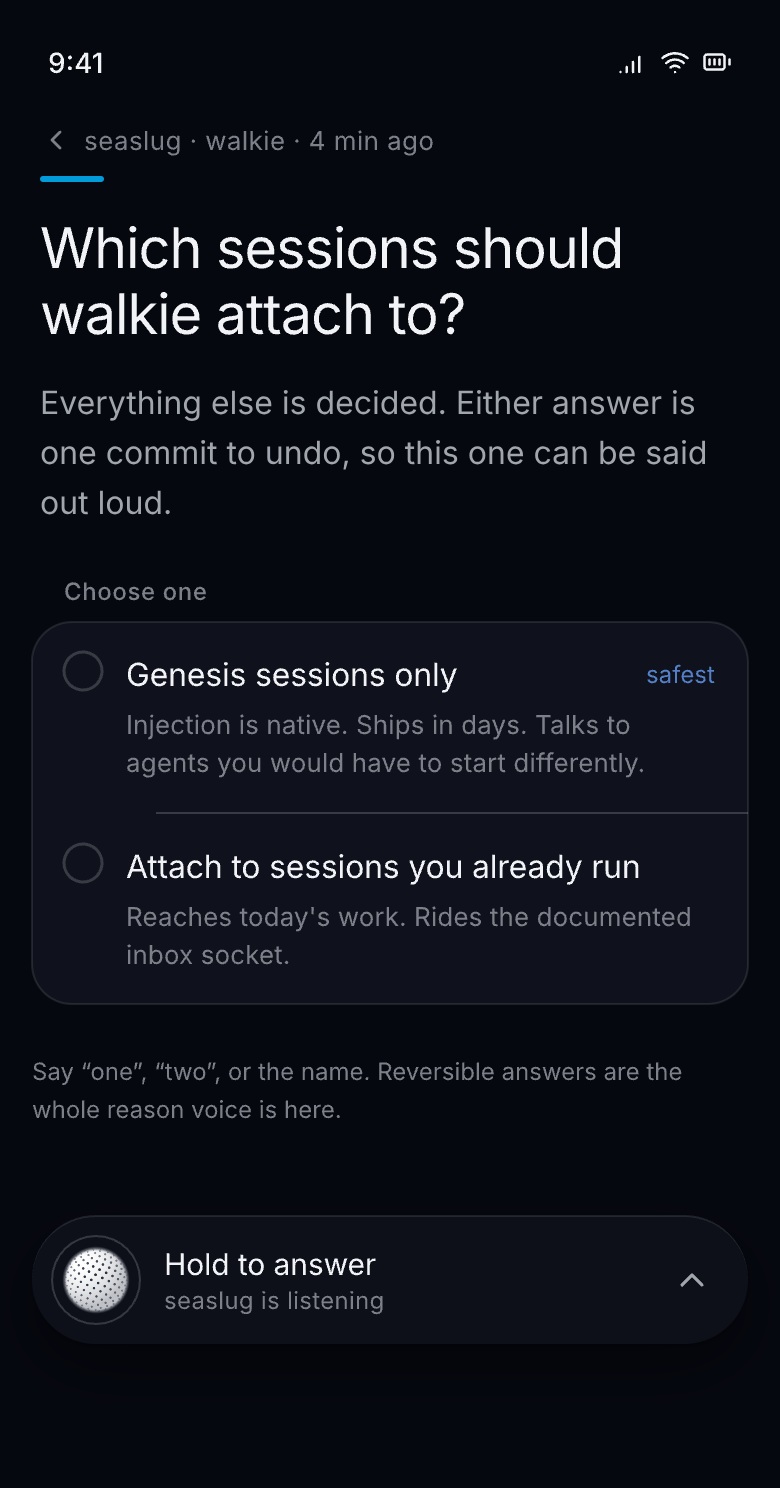
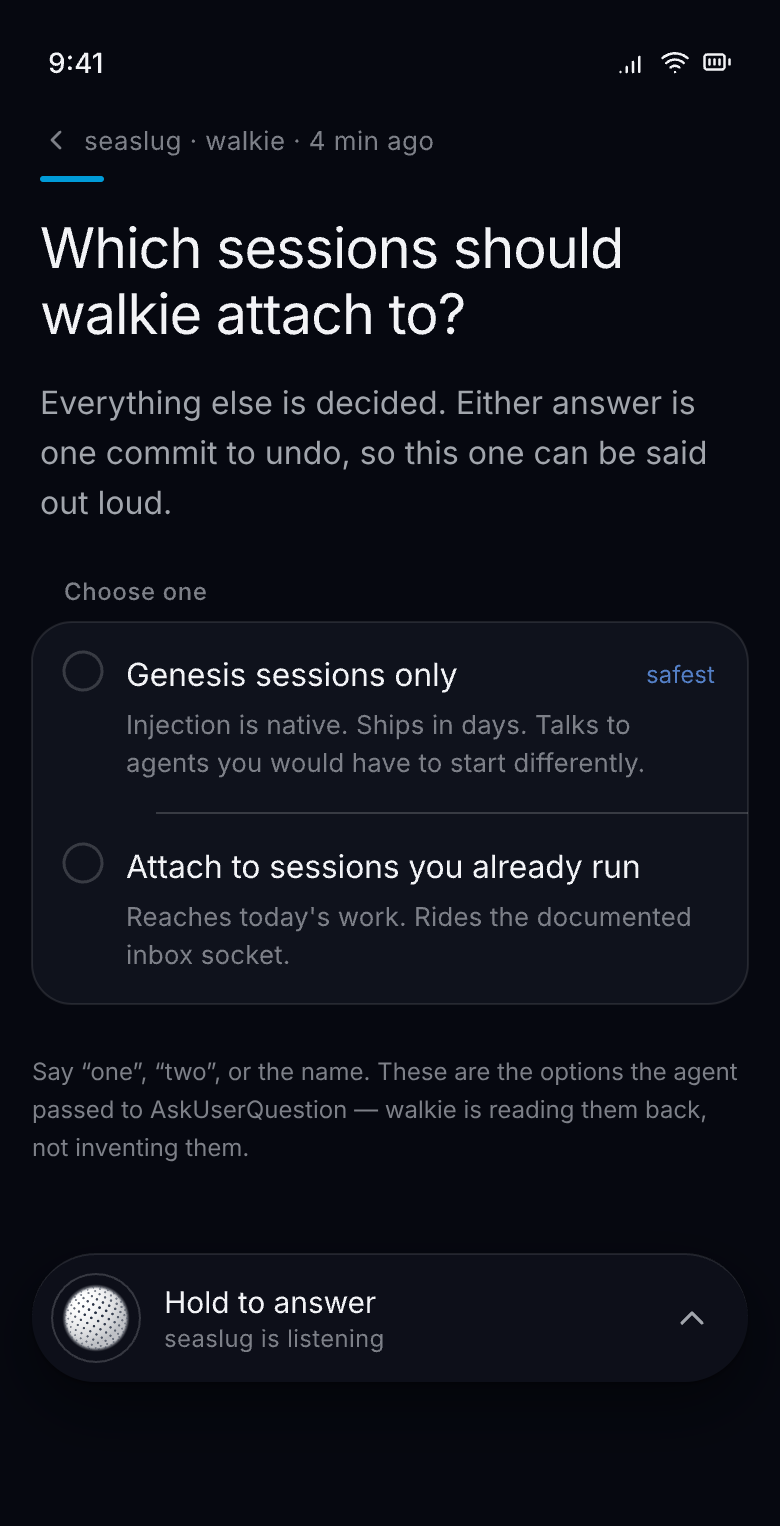
design(walkie): ground the design against Genesis instead of assuming it (BRO-2362)
Read apps/genesis rather than the architecture doc's description of it. Three
things the design had invented are now corrected, and one turned out to be
better than what we designed.

Corrected:

- The phase machine is Genesis'. RunPhase = idle | running | awaiting | blocked
  | done. Running/Needs you/Stuck/Done map to running/awaiting/blocked/done;
  Queued and Standing have no Genesis phase and must not be invented as one.
- The transport is a WebSocket at /ws?thread=<id>, not SSE. The topology board
  and the amendment both said SSE; both are fixed.
- Branches are genesis/<key>, not the run/<key> the screens had shown. noWorktree
  is a sticky per-session posture rather than a constant, so "worktree per run"
  is true of some sessions and false of others.

Better than designed: awaiting is entered when the agent calls AskUserQuestion,
and the reducer captures pendingQuestion off that tool call. A walkie ask IS that
tool invocation and its named options are the tool's options — so "an ask is
structured data, never free text" is already true in the engine rather than a
rule walkie has to impose. The ask screens now say so.

The workspace screen drops invented fields for the real record: rootPath, engine,
worktree posture, and confined — which is the actual spawn-hardening flag, and
the one that decides whether a session inherits the operator's MCP servers.

New board "Wiring · what Genesis actually provides" carries the endpoint list,
[…]

diff --git a/docs/specs/2026-08-29-walkie-architecture-amendment.html b/docs/specs/2026-08-29-walkie-architecture-amendment.html
@@ -94,7 +94,7 @@
 <div class="wrap">
 
 <h1>walkie — architecture amendment</h1>
-<p class="sub">Four decisions taken during design that supersede parts of the 27 August document. The original stands except where named here.</p>
+<p class="sub">Five sections that supersede or ground parts of the 27 August document. The original stands except where named here.</p>
 <p class="meta">BRO-2362 · 2026-08-29 · amends <code>2026-08-27-walkie-architecture.html</code></p>
 
 <p class="lede">The 27 August document is still the reference for scope, security, delivery and the Realtime constraints — none of that moved. What moved is the runtime shape, the client, the deployment, and the state vocabulary. Each section below names the passage it replaces, so the two can be read together without guessing which is current.</p>
@@ -122,7 +122,7 @@
 <p><span class="tag t-major">amends</span> “The service splits in two, and this is structural” and the Client v1/v2 rows of the stack table</p>
 <p>The split existed because a Railway container can satisfy neither same-UID trust nor single-machine locality. A host-resident Genesis satisfies both by construction, and a native client can join the tailnet. So the split is not structural — it was a consequence of choosing Railway.</p>
 <ol class="flow">
-<li><strong>phone ⇄ host, over Tailscale.</strong> SSE for the ask log and session state, ephemeral-secret minting, the call-id relay, typed dispatches. Nothing inbound is exposed; the tailnet is the authentication boundary, which is a stronger statement than the token check it replaces.</li>
+<li><strong>phone ⇄ host, over Tailscale.</strong> Session state and turn events over the WebSocket Genesis already serves at <code>/ws?thread=…</code>; the ask log, ephemeral-secret minting, the call-id relay and typed dispatches over the same Hono surface. Nothing inbound is exposed; the tailnet is the authentication boundary, which is a stronger statement than the bearer check it replaces.</li>
 <li><strong>phone ⇄ OpenAI, over the internet.</strong> The WebRTC media path only. The client still performs its own SDP exchange with the ephemeral key. Once up, this leg does not need the host.</li>
 <li><strong>host ⇄ OpenAI, over the internet.</strong> The sideband with the standard API key, and the tool calls Genesis answers. Unchanged in substance; it simply runs on the workstation.</li>
 <li><strong>host → APNs → phone.</strong> Outbound, so no inbound exposure and no cloud relay.</li>
@@ -141,6 +141,25 @@
 <p><span class="tag t-info">adds</span> vocabulary the original did not carry</p>
 <p><strong>Undertow</strong> is the running signal — the design system’s existing live signal, unchanged. <strong>Understop</strong> is its sibling for work that has halted on you: identical motion, a cyan palette instead of blue. Giving paused its own geometry was tried three ways and failed each time — a held arc read as a rendering fault, a fill read as a progress meter, and a drawn level read as a sliced object. Same weather, different colour, is the version that survived.</p>
 <p><strong>Approval by voice is conditional and machine-checked.</strong> The original puts authorising consequential or irreversible actions by voice out of scope, and cites triage-only scoping as the response to earshot being authentication. That holds. The amendment is narrower: a completed run may be approved by voice <em>only</em> when the host agent can prove containment — no merge, no push, no delete, no migration, revertible in one command. The proof is computed from the run’s diff and target by the service. It is never asserted by the model, and never inferred from a summary produced by the agent that wants the yes. Where containment cannot be proven, voice may open the screen and may not press the button.</p>
+
+
+<h2>5 · What Genesis already provides, and what walkie must build</h2>
+<p><span class="tag t-info">grounds</span> read out of <code>apps/genesis</code>, not assumed</p>
+<p>The design was drafted against the architecture rather than against the engine, and three things needed correcting once the code was read.</p>
+<h3>The phase machine is Genesis&rsquo;, not ours</h3>
+<p><code>RunPhase = "idle" | "running" | "awaiting" | "blocked" | "done"</code>
+(<code>packages/projection/src/reducer.ts</code>). walkie&rsquo;s plain-voice states map onto it but not one to one:
+<em>Running</em> is <code>running</code>, <em>Needs&nbsp;you</em> is <code>awaiting</code>, <em>Stuck</em> is <code>blocked</code>,
+<em>Done</em> is <code>done</code>. <em>Queued</em> has no phase &mdash; <code>idle</code> is a thread that has never run, which is not the same claim.
+<em>Standing</em> has none at all; cadence is walkie&rsquo;s and the reducer knows nothing about it.</p>
+<div class="pull">The useful discovery: <code>awaiting</code> is entered when the agent calls <code>AskUserQuestion</code>, and the reducer captures <code>pendingQuestion</code> off that tool call. A walkie ask is therefore a tool invocation with a schema, and its named options are the tool&rsquo;s options. &ldquo;An ask is structured data, never free text&rdquo; is already true in the engine rather than a rule walkie has to impose on it.</div>
+<h3>The transport is a WebSocket</h3>
+<p>Genesis upgrades with <code>createBunWebSocket</code> and the client connects per thread at <code>/ws?thread=…</code>. Section 2 above previously said SSE; that was assumed and has been corrected. walkie may add a fan-out of its own, but it cannot describe what exists today as SSE.</p>
+<h3>Names, taken from the record</h3>
+<p>Branches are <code>genesis/&lt;key&gt;</code> for a worktree session, or the repository&rsquo;s current branch when the session runs at the root &mdash; the design had invented <code>run/&lt;key&gt;</code>. <code>noWorktree</code> is a posture bound stickily per session, so &ldquo;worktree per run&rdquo; is true of some sessions and false of others. <code>confined</code> is the real spawn-hardening flag: true drops every inherited MCP server, false carries the operator&rsquo;s. Path confinement does not reach MCP, so this flag is the only thing that does, and walkie&rsquo;s workspace screen now surfaces it.</p>
+<h3>What is ours to build</h3>
+<p>Genesis has no gate, no approve verb, no voice-reachability allowlist, no standing routines, no append-only per-user ask log, no containment proof, and no orchestrator plane. Every screen showing one of those is a specification rather than an integration, and should be read that way. <code>POST /control</code> offers <code>reset · interrupt · status · archive · unarchive · rename</code> &mdash; walkie&rsquo;s <em>Interrupt</em> is that interrupt and its <em>Send back</em> is a <code>POST /message</code>, but its <em>Approve</em> has no counterpart today.</p>
+<p>There is already a voice channel in Genesis (<code>apps/api/src/voice.ts</code>, BRO-2228), but it is a different product &mdash; an ElevenLabs phone agent with voice for intake and WhatsApp for delivery. Its governing principle is the one this document argues for independently: nothing in that handler runs an agent; every path answers from state already held, or enqueues and returns.</p>
 
 <h2>What is unchanged</h2>
 <p>Scope, in and out. All four security responses — the host allowlist defaulting to none, asks as structured data rather than free text, triage-only scoping against earshot, and refusing to start without secrets. The append-only per-user ask log with idempotent, individually ackable views. Every Realtime constraint: the undetectable 60-minute cap, silent lossy truncation, and the billing asymmetry that makes long calls cheap to hold and expensive to use. The build plan and its dependency order.</p>

diff --git a/docs/handoffs/2026-08-29-walkie-design-to-build.md b/docs/handoffs/2026-08-29-walkie-design-to-build.md
@@ -115,6 +115,32 @@ over-composite chain, never `rgb * a` a second time), and dot radius is a **frac
 sphere**, never absolute pixels. A 520-point loop hung the canvas renderer; 260 is the
 tested figure and Metal will take more if you measure it.
 
+## Grounded against Genesis
+
+The design was drafted against the architecture document; it has since been checked against
+`apps/genesis` itself. Three corrections landed, and they matter for anyone writing client code:
+
+- **The phase machine is Genesis'.** `RunPhase = "idle" | "running" | "awaiting" | "blocked" | "done"`
+  in `packages/projection/src/reducer.ts`. Running/Needs you/Stuck/Done map to
+  running/**awaiting**/**blocked**/done. Queued and Standing have no Genesis phase — do not
+  invent one.
+- **`awaiting` is entered by `AskUserQuestion`,** and the reducer captures `pendingQuestion`
+  off that tool call. A walkie ask *is* that tool invocation and its options are the tool's
+  options. Build the ask screens against the tool schema, not against a parsed message.
+- **The transport is a WebSocket** at `/ws?thread=<id>`, not SSE. Branches are
+  `genesis/<key>`, not `run/<key>`. `noWorktree` is a sticky per-session posture, not a
+  constant. `confined` is the real spawn-hardening flag and is now on the workspace screen.
+
+**What Genesis does not have,** and is therefore ours to build rather than call: the gate and
+the approve verb, the voice-reachability allowlist, standing routines, the append-only
+per-user ask log, containment proof, and the orchestrator plane. `POST /control` gives
+`reset · interrupt · status · archive · unarchive · rename` — Interrupt maps, Send back is a
+`POST /message`, Approve has no counterpart. Any screen showing one of those is a
+specification, not an integration.
+
+The canvas board **`Wiring · what Genesis actually provides`** carries the full endpoint list
+and the type signatures.
+
 ## Do not re-decide
 
 These are load-bearing and were argued to a conclusion. Changing one is a product decision,
